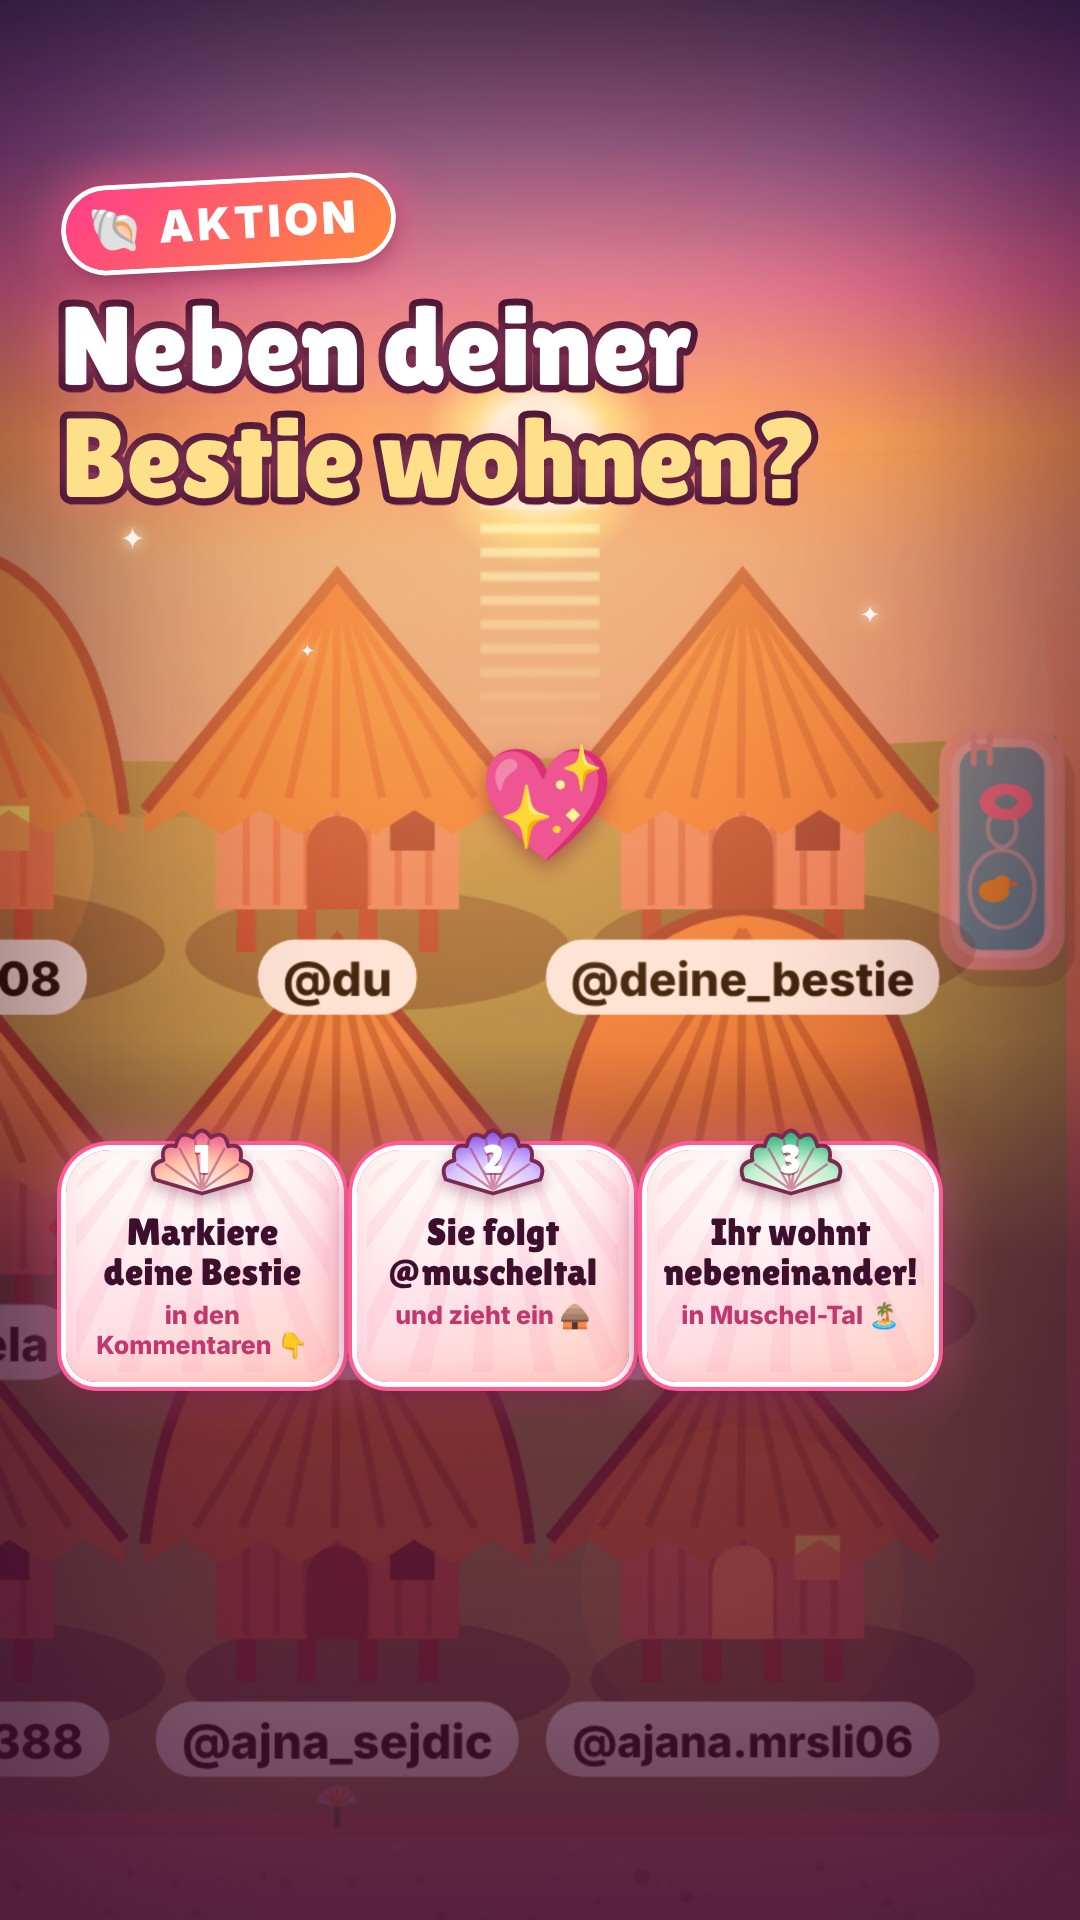
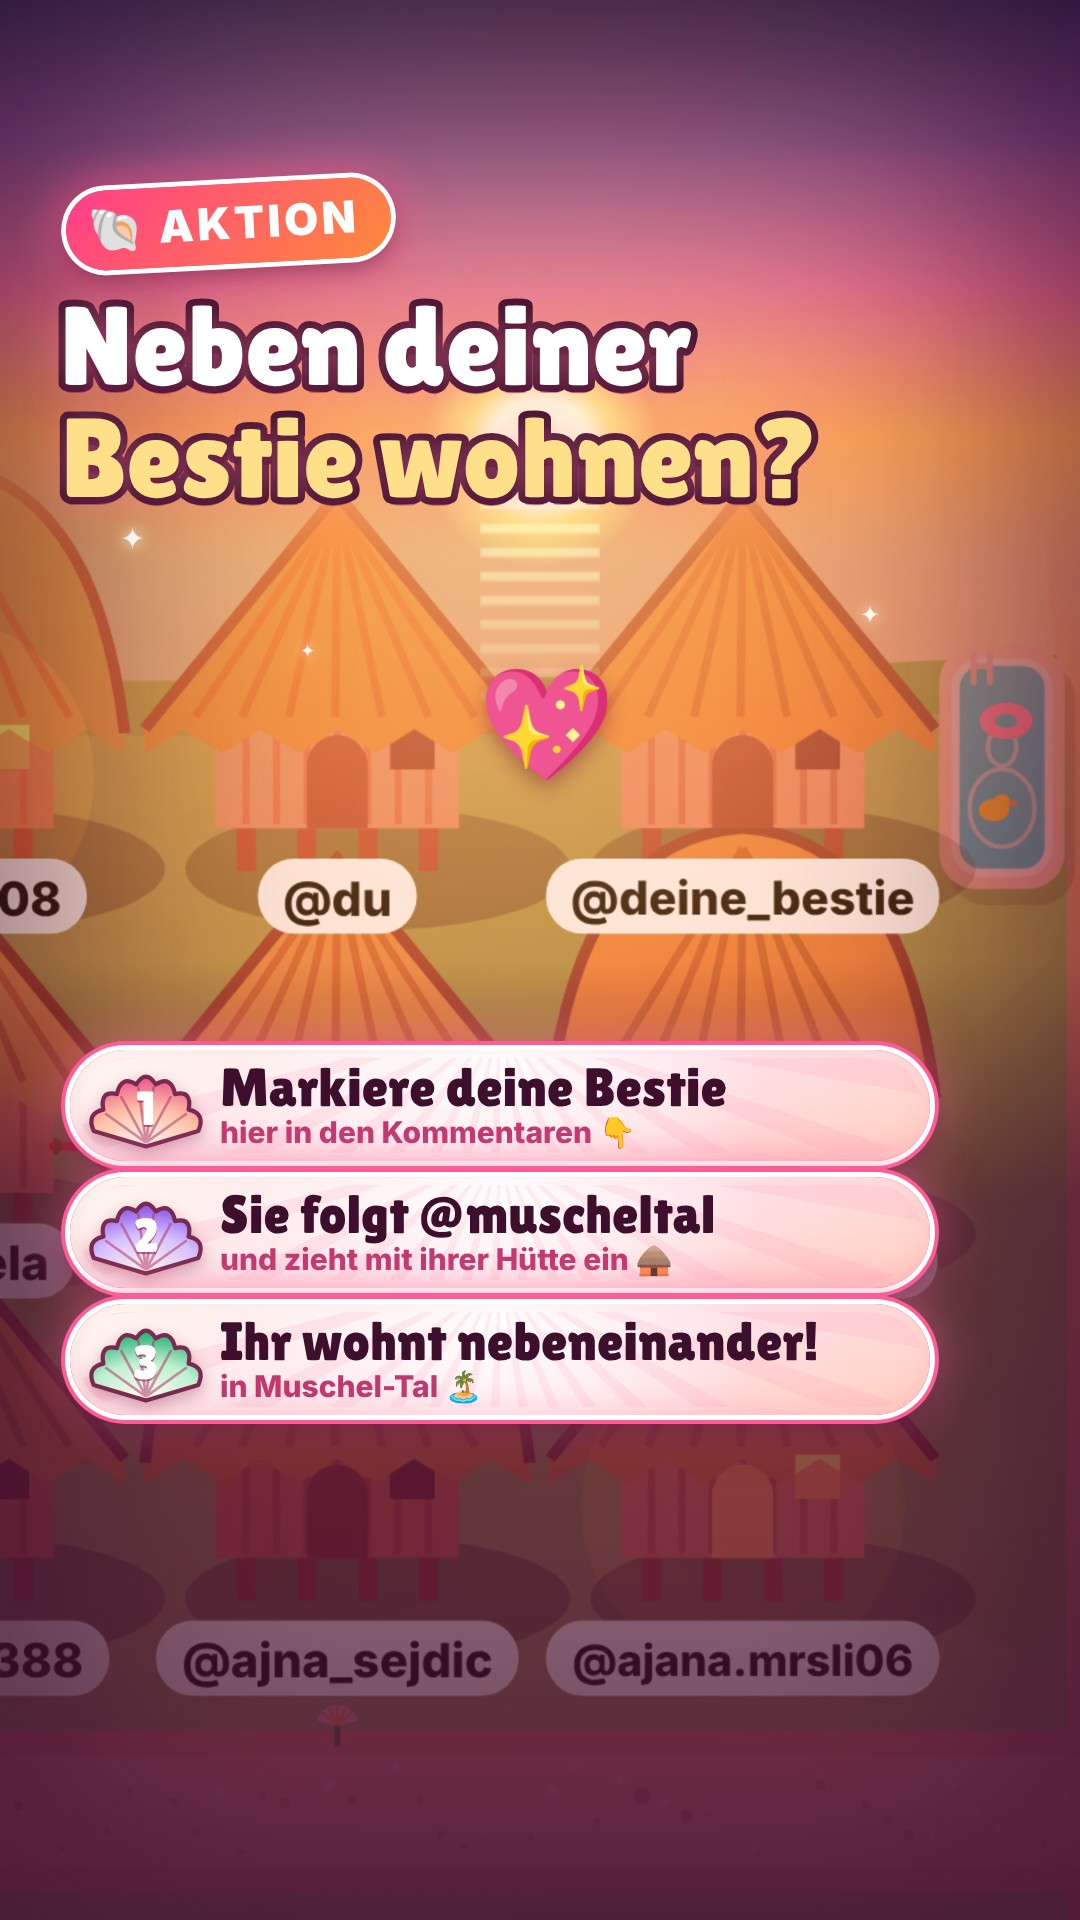
Bestie-Bild: Schritte als große Zeilen
Claude-Session: https://claude.ai/code/session_01McNdgWwqfWZ56Gqk3h71JF

diff --git a/videos/bild-bestie/bild2.html b/videos/bild-bestie/bild2.html
@@ -14,24 +14,24 @@ body{width:1080px;height:1920px;overflow:hidden;position:relative;font-family:In
 #ak{position:absolute;left:66px;top:184px;display:flex;align-items:center;gap:12px;padding:12px 32px 14px 22px;border-radius:999px;background:linear-gradient(135deg,#ff3d8b,#ff8a3c);box-shadow:0 0 0 5px #fff,0 10px 24px rgba(80,20,60,.5),0 0 40px 10px rgba(255,90,140,.6);font:900 44px Inter,sans-serif;color:#fff;letter-spacing:.08em;transform:rotate(-3deg)}
 #h{position:absolute;left:60px;top:290px;width:860px;font:400 112px/1.0 L;color:#fff;-webkit-text-stroke:14px #3d0f2c;paint-order:stroke fill;text-shadow:0 8px 0 rgba(90,20,60,.4),0 0 40px rgba(255,120,160,.55)}
 #h b{font-weight:400;color:#ffe08a}
-#hz{position:absolute;left:478px;top:735px;font-size:110px;filter:drop-shadow(0 8px 10px rgba(120,20,60,.45))}
+#hz{position:absolute;left:478px;top:655px;font-size:110px;filter:drop-shadow(0 8px 10px rgba(120,20,60,.45))}
 /* Schritte: Muschel-Karten */
-#st{position:absolute;left:66px;width:868px;top:1150px;display:flex;gap:18px}
-.k{flex:1;position:relative;padding:62px 16px 22px;border-radius:44px 44px 30px 30px;text-align:center;
+#st{position:absolute;left:70px;width:860px;top:1050px;display:flex;flex-direction:column;gap:16px}
+.k{position:relative;min-height:104px;padding:10px 24px 12px 150px;border-radius:999px;text-align:left;
  background:radial-gradient(circle at 50% 0%,rgba(255,255,255,.95),rgba(255,255,255,0) 60%),linear-gradient(160deg,#fff7f1 0%,#ffe1ea 55%,#ffd2c2 100%);
  box-shadow:0 0 0 5px #fff,0 0 0 9px #ff5c97,0 18px 34px rgba(60,10,40,.55),0 0 50px 8px rgba(255,120,170,.55),inset 0 -10px 24px rgba(255,140,170,.25)}
-.k:before{content:"";position:absolute;inset:10px;border-radius:36px 36px 22px 22px;background:repeating-conic-gradient(from 180deg at 50% -40%,rgba(255,150,180,.16) 0 4deg,transparent 4deg 12deg);pointer-events:none}
-.k .n{position:absolute;left:50%;top:-58px;transform:translateX(-50%);width:112px;height:112px}
+.k:before{content:"";position:absolute;inset:8px;border-radius:999px;background:repeating-conic-gradient(from 180deg at 50% -40%,rgba(255,150,180,.16) 0 4deg,transparent 4deg 12deg);pointer-events:none}
+.k .n{position:absolute;left:14px;top:50%;transform:translateY(-58%);width:124px;height:124px}
 .k .n svg{width:100%;height:100%;filter:drop-shadow(0 6px 8px rgba(120,20,60,.35))}
-.k .n span{position:absolute;inset:0;display:grid;place-items:center;padding-top:22px;font:400 40px L;color:#fff;text-shadow:0 2px 0 rgba(150,30,80,.6)}
-.k .t{position:relative;font:400 38px/1.05 L;color:#3d0f2c}
-.k .s{position:relative;margin-top:8px;font:800 25px/1.2 Inter,sans-serif;color:#c2386e}
+.k .n span{position:absolute;inset:0;display:grid;place-items:center;padding-top:26px;font:400 48px L;color:#fff;text-shadow:0 2px 0 rgba(150,30,80,.6)}
+.k .t{position:relative;font:400 54px/1.0 L;color:#3d0f2c}
+.k .s{position:relative;margin-top:2px;font:800 30px/1.1 Inter,sans-serif;color:#c2386e}
 </style></head><body>
-<div id="bg"></div><div id="warm"></div><div id="sky"></div><div id="sun"></div><div id="refl"></div><div id="glow"></div><div id="vig"></div><div id="low" style="position:absolute;left:0;right:0;top:1040px;bottom:0;background:linear-gradient(180deg,rgba(60,15,50,0),rgba(60,15,50,.55) 25%,rgba(60,15,50,.7))"></div>
+<div id="bg"></div><div id="warm"></div><div id="sky"></div><div id="sun"></div><div id="refl"></div><div id="glow"></div><div id="vig"></div><div id="low" style="position:absolute;left:0;right:0;top:960px;bottom:0;background:linear-gradient(180deg,rgba(60,15,50,0),rgba(60,15,50,.55) 25%,rgba(60,15,50,.7))"></div>
 <div class="sp" style="left:120px;top:520px;font-size:30px">✦</div><div class="sp" style="left:860px;top:600px;font-size:24px">✦</div><div class="sp" style="left:300px;top:640px;font-size:18px">✦</div>
 <div id="ak">🐚 AKTION</div>
 <div id="h">Neben deiner<br><b>Bestie wohnen?</b></div>
 <div id="hz">💖</div>
 <div id="st">
-<div class="k"><div class="n"><svg viewBox="0 0 64 64"><defs><radialGradient id="g0" cx=".5" cy=".95" r=".9"><stop offset="0" stop-color="#fffaf2"/><stop offset=".55" stop-color="#ffc2a8"/><stop offset="1" stop-color="#ec5f8d"/></radialGradient></defs><path d="M32 58 L5 50 Q1 41 10 39 Q8 29 17 31 Q19 21 27 26 Q32 18 37 26 Q45 21 47 31 Q56 29 54 39 Q63 41 59 50 Z" fill="url(#g0)" stroke="#7a2a50" stroke-width="2.2" stroke-linejoin="round"/><path d="M32 56L11 41M32 56L19 32M32 56L28 27M32 56L36 27M32 56L45 32M32 56L53 41" stroke="#b03a6a" stroke-width="1.4" opacity=".55"/></svg><span>1</span></div><div class="t">Markiere deine Bestie</div><div class="s">in den Kommentaren 👇</div></div><div class="k"><div class="n"><svg viewBox="0 0 64 64"><defs><radialGradient id="g1" cx=".5" cy=".95" r=".9"><stop offset="0" stop-color="#fffaf2"/><stop offset=".55" stop-color="#d7c2ff"/><stop offset="1" stop-color="#8e5ae8"/></radialGradient></defs><path d="M32 58 L5 50 Q1 41 10 39 Q8 29 17 31 Q19 21 27 26 Q32 18 37 26 Q45 21 47 31 Q56 29 54 39 Q63 41 59 50 Z" fill="url(#g1)" stroke="#7a2a50" stroke-width="2.2" stroke-linejoin="round"/><path d="M32 56L11 41M32 56L19 32M32 56L28 27M32 56L36 27M32 56L45 32M32 56L53 41" stroke="#b03a6a" stroke-width="1.4" opacity=".55"/></svg><span>2</span></div><div class="t">Sie folgt @muscheltal</div><div class="s">und zieht ein 🛖</div></div><div class="k"><div class="n"><svg viewBox="0 0 64 64"><defs><radialGradient id="g2" cx=".5" cy=".95" r=".9"><stop offset="0" stop-color="#fffaf2"/><stop offset=".55" stop-color="#bff0d0"/><stop offset="1" stop-color="#2fb37a"/></radialGradient></defs><path d="M32 58 L5 50 Q1 41 10 39 Q8 29 17 31 Q19 21 27 26 Q32 18 37 26 Q45 21 47 31 Q56 29 54 39 Q63 41 59 50 Z" fill="url(#g2)" stroke="#7a2a50" stroke-width="2.2" stroke-linejoin="round"/><path d="M32 56L11 41M32 56L19 32M32 56L28 27M32 56L36 27M32 56L45 32M32 56L53 41" stroke="#b03a6a" stroke-width="1.4" opacity=".55"/></svg><span>3</span></div><div class="t">Ihr wohnt nebeneinander!</div><div class="s">in Muschel-Tal 🏝</div></div></div>
+<div class="k"><div class="n"><svg viewBox="0 0 64 64"><defs><radialGradient id="g0" cx=".5" cy=".95" r=".9"><stop offset="0" stop-color="#fffaf2"/><stop offset=".55" stop-color="#ffc2a8"/><stop offset="1" stop-color="#ec5f8d"/></radialGradient></defs><path d="M32 58 L5 50 Q1 41 10 39 Q8 29 17 31 Q19 21 27 26 Q32 18 37 26 Q45 21 47 31 Q56 29 54 39 Q63 41 59 50 Z" fill="url(#g0)" stroke="#7a2a50" stroke-width="2.2" stroke-linejoin="round"/><path d="M32 56L11 41M32 56L19 32M32 56L28 27M32 56L36 27M32 56L45 32M32 56L53 41" stroke="#b03a6a" stroke-width="1.4" opacity=".55"/></svg><span>1</span></div><div class="t">Markiere deine Bestie</div><div class="s">hier in den Kommentaren 👇</div></div><div class="k"><div class="n"><svg viewBox="0 0 64 64"><defs><radialGradient id="g1" cx=".5" cy=".95" r=".9"><stop offset="0" stop-color="#fffaf2"/><stop offset=".55" stop-color="#d7c2ff"/><stop offset="1" stop-color="#8e5ae8"/></radialGradient></defs><path d="M32 58 L5 50 Q1 41 10 39 Q8 29 17 31 Q19 21 27 26 Q32 18 37 26 Q45 21 47 31 Q56 29 54 39 Q63 41 59 50 Z" fill="url(#g1)" stroke="#7a2a50" stroke-width="2.2" stroke-linejoin="round"/><path d="M32 56L11 41M32 56L19 32M32 56L28 27M32 56L36 27M32 56L45 32M32 56L53 41" stroke="#b03a6a" stroke-width="1.4" opacity=".55"/></svg><span>2</span></div><div class="t">Sie folgt @muscheltal</div><div class="s">und zieht mit ihrer Hütte ein 🛖</div></div><div class="k"><div class="n"><svg viewBox="0 0 64 64"><defs><radialGradient id="g2" cx=".5" cy=".95" r=".9"><stop offset="0" stop-color="#fffaf2"/><stop offset=".55" stop-color="#bff0d0"/><stop offset="1" stop-color="#2fb37a"/></radialGradient></defs><path d="M32 58 L5 50 Q1 41 10 39 Q8 29 17 31 Q19 21 27 26 Q32 18 37 26 Q45 21 47 31 Q56 29 54 39 Q63 41 59 50 Z" fill="url(#g2)" stroke="#7a2a50" stroke-width="2.2" stroke-linejoin="round"/><path d="M32 56L11 41M32 56L19 32M32 56L28 27M32 56L36 27M32 56L45 32M32 56L53 41" stroke="#b03a6a" stroke-width="1.4" opacity=".55"/></svg><span>3</span></div><div class="t">Ihr wohnt nebeneinander!</div><div class="s">in Muschel-Tal 🏝</div></div></div>
 </body></html>
